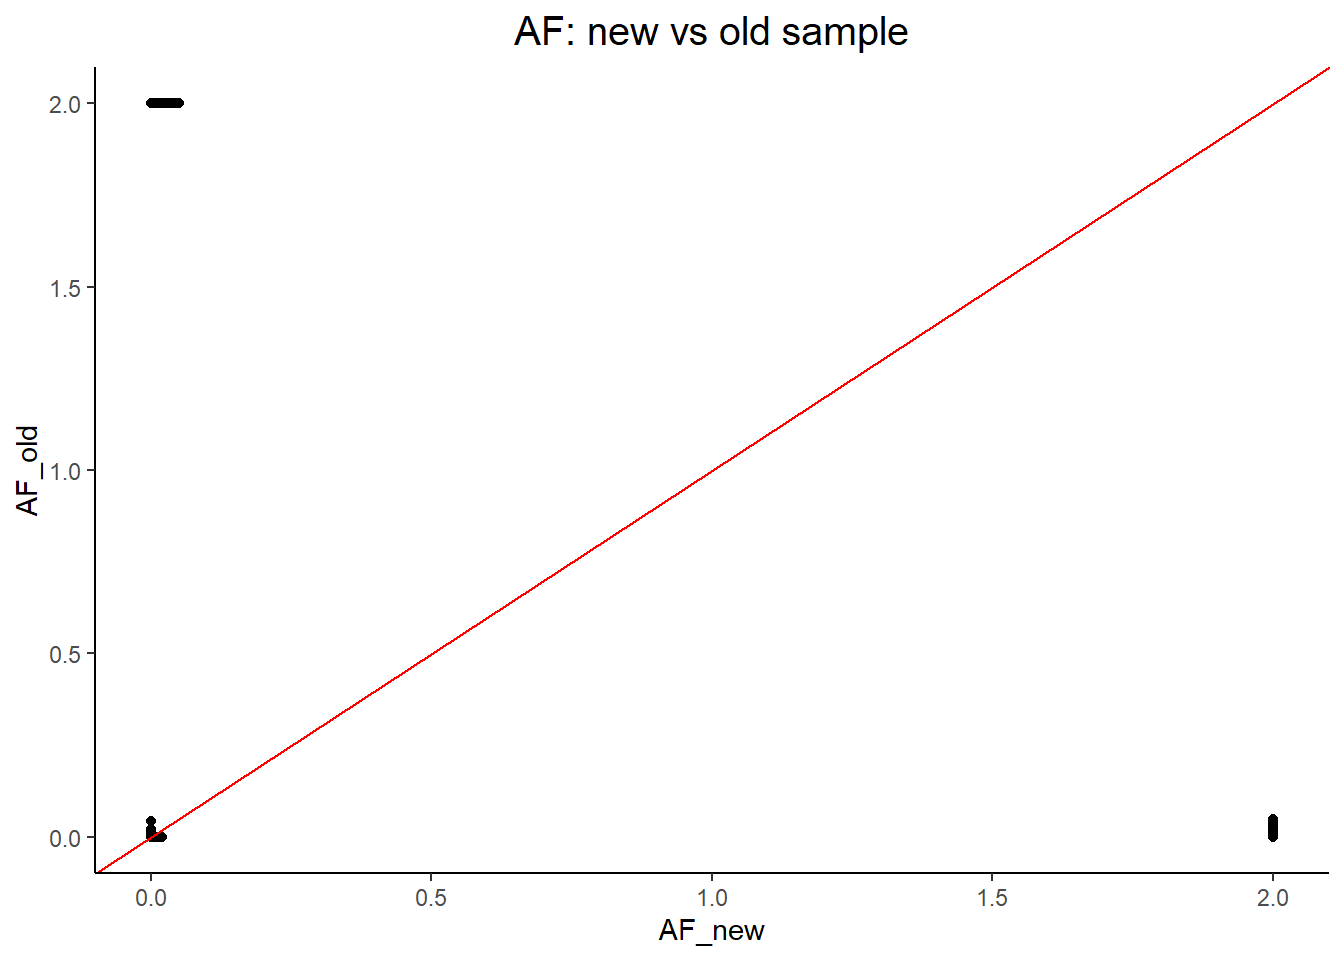
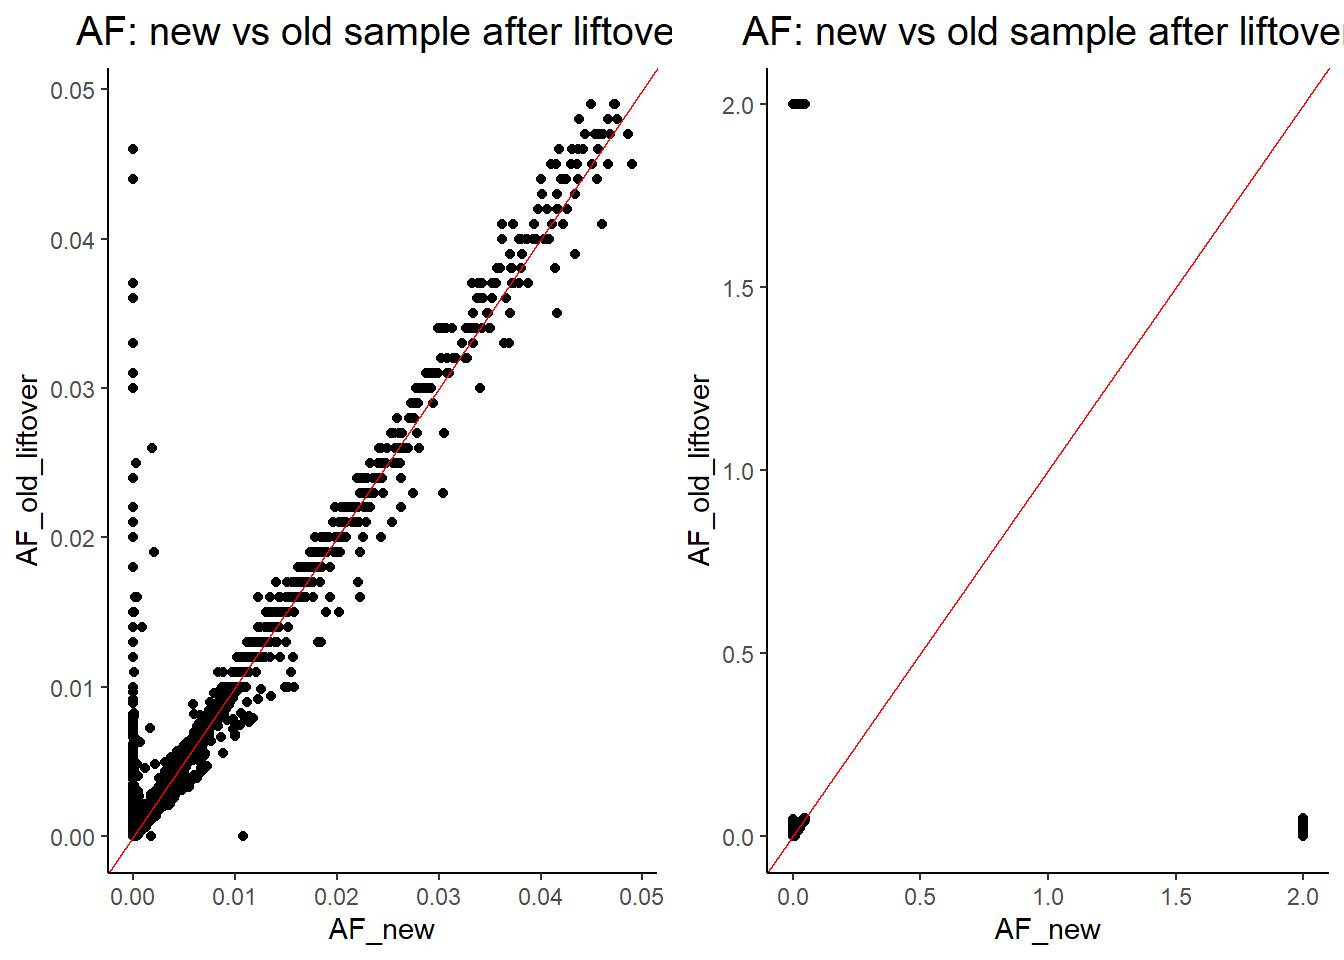
9/22/2022

diff --git a/docs/index.html b/docs/index.html
@@ -269,57 +269,78 @@ $(document).ready(function () {
 
 
 
-<h1 class="title toc-ignore">Statistical rare variant analysis for autism</h1>
+<h1 class="title toc-ignore">Statistical rare variant analysis for
+autism</h1>
 
 </div>
 
 
-<p><a href="https://www.dropbox.com/home/RareVariantProject?preview=RareVariant.pdf">This is the project</a></p>
+<p><a
+href="https://www.dropbox.com/home/RareVariantProject?preview=RareVariant.pdf">This
+is the project</a></p>
 <div id="mirage-with-logistic-prior" class="section level2">
 <h2>MIRAGE with logistic prior</h2>
 <ul>
-<li><a href="model_logistic_prior.html">modeling with logistic prior</a></li>
-<li><a href="simulation_logistic_prior.html">simulation experiments</a></li>
+<li><a href="model_logistic_prior.html">modeling with logistic
+prior</a></li>
+<li><a href="simulation_logistic_prior.html">simulation
+experiments</a></li>
 </ul>
 </div>
 <div id="simulation-studies" class="section level2">
 <h2>Simulation studies</h2>
 <ul>
-<li><a href="simulation-study.html">numerical simulation studies</a></li>
+<li><a href="simulation-study.html">numerical simulation
+studies</a></li>
 </ul>
 </div>
-<div id="whole-exome-sequencing-wes-data-analysis-for-old-sample" class="section level2">
+<div id="whole-exome-sequencing-wes-data-analysis-for-old-sample"
+class="section level2">
 <h2>Whole exome sequencing (WES) data analysis for old sample</h2>
 <ul>
 <li><p><a href="ASD.html">Quality control (QC)</a></p></li>
-<li><p><a href="variant_set_analysis.html">Variant Set (VS) analysis</a></p></li>
+<li><p><a href="variant_set_analysis.html">Variant Set (VS)
+analysis</a></p></li>
 <li><p><a href="GeneSetAnalysis.html">Gene set analysis</a></p></li>
 </ul>
 </div>
 <div id="cell-data-downloaded-from-dbgap" class="section level2">
 <h2>Cell data downloaded from dbGaP</h2>
 <ul>
-<li><p><a href="ASD_dbGaP.html">analysis for ASD data dowloaded from dbGaP</a></p></li>
-<li><p><a href="SCZ-analysis.html">analysis for Schizophrenia data</a></p></li>
-<li><p><a href="ASD_dbGaP_code.html">code for merging annotation features and sample data from dbGap</a></p></li>
+<li><p><a href="ASD_dbGaP.html">analysis for ASD data dowloaded from
+dbGaP</a></p></li>
+<li><p><a href="SCZ-analysis.html">analysis for Schizophrenia
+data</a></p></li>
+<li><p><a href="ASD_dbGaP_code.html">code for merging annotation
+features and sample data from dbGap</a></p></li>
 </ul>
 </div>
-<div id="analysis-for-transmitted-variants-from-asc-cell-paper" class="section level2">
+<div id="analysis-for-transmitted-variants-from-asc-cell-paper"
+class="section level2">
 <h2>Analysis for transmitted variants from ASC cell paper</h2>
 <ul>
-<li><p><a href="ASC_cell_data.html">Quality control (QC) and annotate variants in Cell data</a></p></li>
-<li><p><a href="VS-ASC.html">Variant set (VS) analysis for transmitted variants in ASC cell paper</a></p></li>
-<li><p><a href="gene_set_analysis_cell_data.html">Gene set analysis for transmitted variants in ASC cell paper</a></p></li>
+<li><p><a href="ASC_cell_data.html">Quality control (QC) and annotate
+variants in Cell data</a></p></li>
+<li><p><a href="VS-ASC.html">Variant set (VS) analysis for transmitted
+variants in ASC cell paper</a></p></li>
+<li><p><a href="gene_set_analysis_cell_data.html">Gene set analysis for
+transmitted variants in ASC cell paper</a></p></li>
 </ul>
 </div>
-<div id="analysis-for-transmitted-variant-from-new-unpublished-sample" class="section level2">
+<div id="analysis-for-transmitted-variant-from-new-unpublished-sample"
+class="section level2">
 <h2>Analysis for transmitted variant from new (unpublished) sample</h2>
 <ul>
-<li><p><a href="ASC_new_sample.html">Quality control (QC) for new sample</a></p></li>
-<li><p><a href="ASC_new_sample_syn_var.html">Synonymous variants</a></p></li>
-<li><p><a href="ASC_new_sample_variant_set.html">Variant set (VS) analysis</a></p></li>
-<li><p><a href="ASC_new_sample_gene_set.html">gene set analsyis for new sample</a></p></li>
+<li><p><a href="ASC_new_sample.html">Quality control (QC) for new
+sample</a></p></li>
+<li><p><a href="ASC_new_sample_syn_var.html">Synonymous
+variants</a></p></li>
+<li><p><a href="ASC_new_sample_variant_set.html">Variant set (VS)
+analysis</a></p></li>
+<li><p><a href="ASC_new_sample_gene_set.html">gene set analsyis for new
+sample</a></p></li>
 <li><p><a href="variant_from_kyle.html">Kyle’s variants</a></p></li>
+<li><p><a href="liftover_files.html">liftover samples</a></p></li>
 </ul>
 </div>
 

diff --git a/docs/liftover_files.html b/docs/liftover_files.html
@@ -9,10 +9,9 @@
 <meta http-equiv="X-UA-Compatible" content="IE=EDGE" />
 
 
-<meta name="author" content="Shengtong" />
 
 
-<title>rare variants with logistic prior</title>
+<title>liftover samples</title>
 
 <script src="site_libs/header-attrs-2.11/header-attrs.js"></script>
 <script src="site_libs/jquery-3.6.0/jquery-3.6.0.min.js"></script>
@@ -346,68 +345,13 @@ div.tocify {
 
 
 
-<h1 class="title toc-ignore">rare variants with logistic prior</h1>
-<h4 class="author">Shengtong</h4>
+<h1 class="title toc-ignore">liftover samples</h1>
 
 </div>
 
 
-<div id="bayes-factor-for-variant" class="section level2">
-<h2>Bayes factor for variant</h2>
-<p>Assume Poisson model for variant count in cases and control with
-sample sizes <span class="math inline">\(N_1, N_0\)</span> respectively,
-<span class="math inline">\(X_1 \sim Pois(q\gamma N_1), X_0 \sim
-Pois(qN_0)\)</span>, both are total counts across all individuals
-(summary statistics).</p>
-<p>Consider conditional distribution <span
-class="math inline">\(X_1|X_1+X_0 \sim Bin(X_1+X_0, \frac{\gamma
-N_1}{\gamma N_1+N_0})\)</span>. For variant <span
-class="math inline">\(j\)</span>, the Bayes factor <span
-class="math inline">\(B_j=\frac{p(X_{1j}|Z_j=1)}{p(x_{1j}|Z_j=0)}\)</span>.
-This connects to hypothesis testing <span class="math inline">\(H_0:
-\gamma=1\)</span> vs <span class="math inline">\(H_a:\gamma \sim
-Gamma(\bar{\gamma}\sigma, \sigma)\)</span>, so <span
-class="math inline">\(B_j\)</span> is calculated under each
-hypothesis.</p>
-</div>
-<div id="modeling-logistic-prior" class="section level2">
-<h2>modeling logistic prior</h2>
-<p>Let <span class="math inline">\(Z_j\)</span> be an indicator variable
-for risk status of variant <span class="math inline">\(j\)</span>
-i.e. <span class="math inline">\(Z_j=1\)</span> for risk variant and
-<span class="math inline">\(0\)</span> for non-risk variant, which may
-have multiple annotations, say <span class="math inline">\(K\)</span>,
-in a vector <span class="math inline">\(A_j=(A_{j1}, A_{j2}, \cdots,
-A_{jK})&#39;\)</span>. One way of modeling this high dimensional effect
-is through logistic regression</p>
-<p><span class="math display">\[logit [p(Z_j=1)]=logit [\eta_j]=log
-\frac{p(Z_j=1)}{1-p(Z_j=1)}=\sum_{k=1}^K \beta_kA_{jk}\]</span>.</p>
-<p>What values does <span class="math inline">\(A_{jk}\)</span>
-take?</p>
-<p>Assume <span class="math inline">\(p(Z_j=1)=\eta_j\)</span>, the
-probability that variant <span class="math inline">\(j\)</span> is a
-risk variant. then <span class="math inline">\(\eta_j=\frac{e^{\sum_k
-\beta_k A_{jk}}}{1+e^{\sum_k \beta_k A_{jk}}}\)</span>. The likelihood
-of the sample with <span class="math inline">\(J\)</span> independent
-variants is</p>
-<p><span class="math display">\[L(x|\beta&#39;s)\propto
-\prod_{j=1}^J[(1-\eta_j)+\eta_jB_j]\]</span>, where <span
-class="math inline">\(B_j\)</span> is the bayes factor for variant <span
-class="math inline">\(j\)</span>.</p>
-</div>
-<div id="shrinkaging-beta_j" class="section level2">
-<h2>Shrinkaging <span class="math inline">\(\beta_j\)</span></h2>
-<p>The number of annotation features, <span
-class="math inline">\(K\)</span> could be a big number, even in hundred.
-To capture more informative ones, a penalty term could be used on
-coefficients <span class="math inline">\(\beta&#39;s\)</span>. Two
-popular choices are <span class="math inline">\(\ell_1, \ell_2\)</span>
-norms, leading to</p>
-<p><span
-class="math display">\[l_p(x|\beta&#39;s)=log(L(x|\beta&#39;s))-\frac{\lambda}{2}\sum_{k=1}^K\beta_k^2+c\]</span></p>
-<p>and</p>
-<p><span
-class="math display">\[min_{\beta&#39;s}\{-log(L(x|\beta&#39;s)+\lambda||\beta||_1)\}\]</span></p>
+<div id="withwithout-liftover" class="section level2">
+<h2>with/without liftover</h2>
 </div>
 
 <hr>

diff --git a/docs/ASC_new_sample_variant_set.html b/docs/ASC_new_sample_variant_set.html
@@ -355,20 +355,36 @@ div.tocify {
 <div id="allele-frequency-old-sample-vs-new-sample"
 class="section level2">
 <h2>Allele frequency: old sample vs new sample</h2>
-<p><img src="ASC_new_sample_variant_set_files/figure-html/unnamed-chunk-6-1.png" width="672" /></p>
+<p><img src="ASC_new_sample_variant_set_files/figure-html/unnamed-chunk-6-1.png" width="672" /><img src="ASC_new_sample_variant_set_files/figure-html/unnamed-chunk-6-2.png" width="672" /></p>
 <ul>
-<li><p>for both samples, focus on variants with AF&lt;5% and exclude syn
-mutations.</p></li>
-<li><p>each point is one locus</p></li>
-<li><p>left panel: 344 (0.0188%) overlapping loci with numeric AF from
-both old and new sample; one example is
+<li>for both samples, focus on variants with AF&lt;5% and exclude syn
+mutations.</li>
+<li>each point is one locus</li>
+<li>left panel: 344 (0.0188%) overlapping loci with numeric AF from both
+old and new sample; one example is
 <code>7:100683050 0.042 (AF_old)      0.0000816(AF_new)</code>, in
 Gnomad database, V2 say AF is <code>4.05e-2</code>, ExAC AF is
 <code>4.22e-2</code>, and v3 (hg38) AF is <code>3.28e-5</code>. This
 example suggests <code>Gnomad_non_neuro_AF</code> is close to genomewide
-AF under hg38.</p></li>
+AF under hg38.</li>
+</ul>
+<pre><code>&gt; ASC_new_sample %&gt;% filter(Variant==&quot;7:100683050:G:A&quot;) %&gt;% select(Variant, Gene, pLI, Consequence, Gnomad_non_neuro_AF)
+# A tibble: 1 x 5
+  Variant         Gene     pLI Consequence      Gnomad_non_neuro_AF
+  &lt;chr&gt;           &lt;chr&gt;  &lt;dbl&gt; &lt;chr&gt;                          &lt;dbl&gt;
+1 7:100683050:G:A GIGYF1 0.979 missense_variant           0.0000816</code></pre>
+<pre><code>&gt; Anno.Data %&gt;%
++     filter(str_detect(ID, &#39;7:100683050&#39;)) %&gt;% select(ID, Gene, ExacAF)
+# A tibble: 1 x 3
+  ID                        Gene  ExacAF
+  &lt;chr&gt;                     &lt;chr&gt;  &lt;dbl&gt;
+1 7:100683050-100683050_T_G MUC17  0.042</code></pre>
+<ul>
 <li><p>right panel: 1826590 loci with <code>NA</code> AF replaced with 2
 either from new or old sample</p></li>
+<li><p>in the two figures in the bottom, old samples are liftover, a
+larger number of loci (45,886, 2.57%) are overlapping between new sample
+and liftover sample of old data.</p></li>
 </ul>
 </div>
 <div id="burden-analysis-for-new-sample" class="section level2">

diff --git a/docs/simulation_logistic_prior.html b/docs/simulation_logistic_prior.html
@@ -350,8 +350,22 @@ div.tocify {
 </div>
 
 
-<div id="settings" class="section level2">
-<h2>settings</h2>
+<div id="data-genreration-process" class="section level2">
+<h2>data genreration process</h2>
+</div>
+<div id="one-annotation-group" class="section level2">
+<h2>one Annotation group</h2>
+<p>Suppose there is one annotation group affecting the risk of variants
+via logistic function</p>
+<p><img src="simulation_logistic_prior_files/figure-html/unnamed-chunk-2-1.png" width="672" /></p>
+<ul>
+<li>run 10 replicates</li>
+<li>one annotation group with true <span
+class="math inline">\(\beta=2\)</span></li>
+</ul>
+</div>
+<div id="multiple-annotation-groups" class="section level2">
+<h2>multiple annotation groups</h2>
 </div>
 
 <hr>
